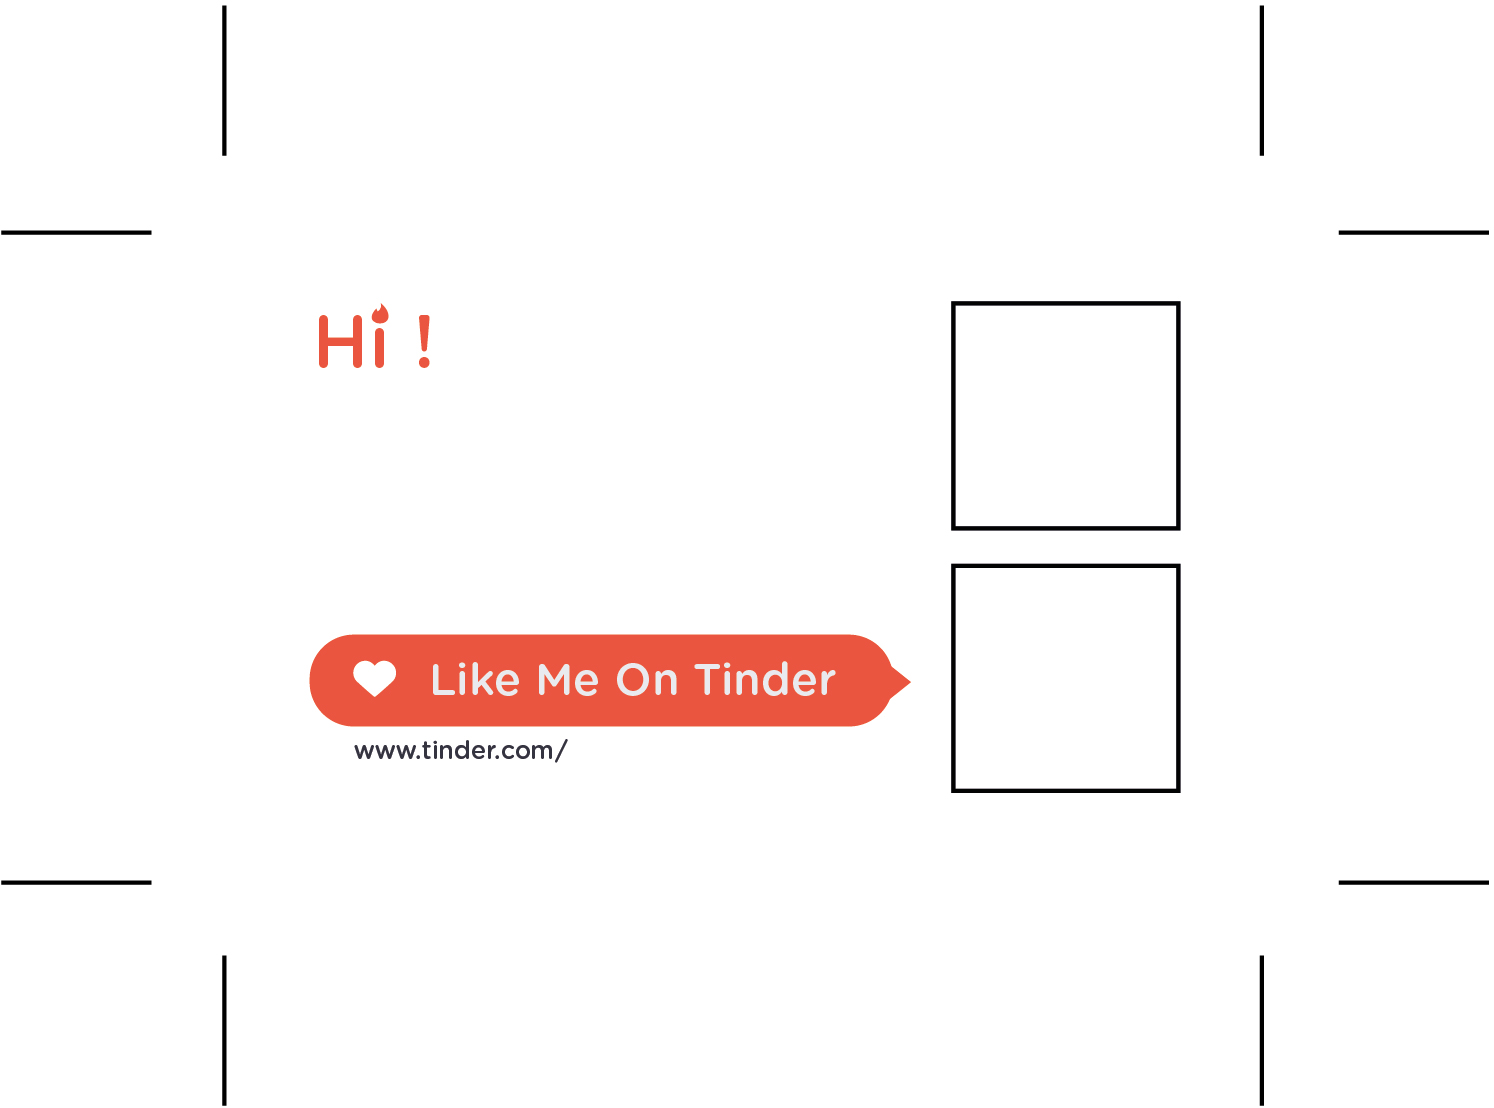
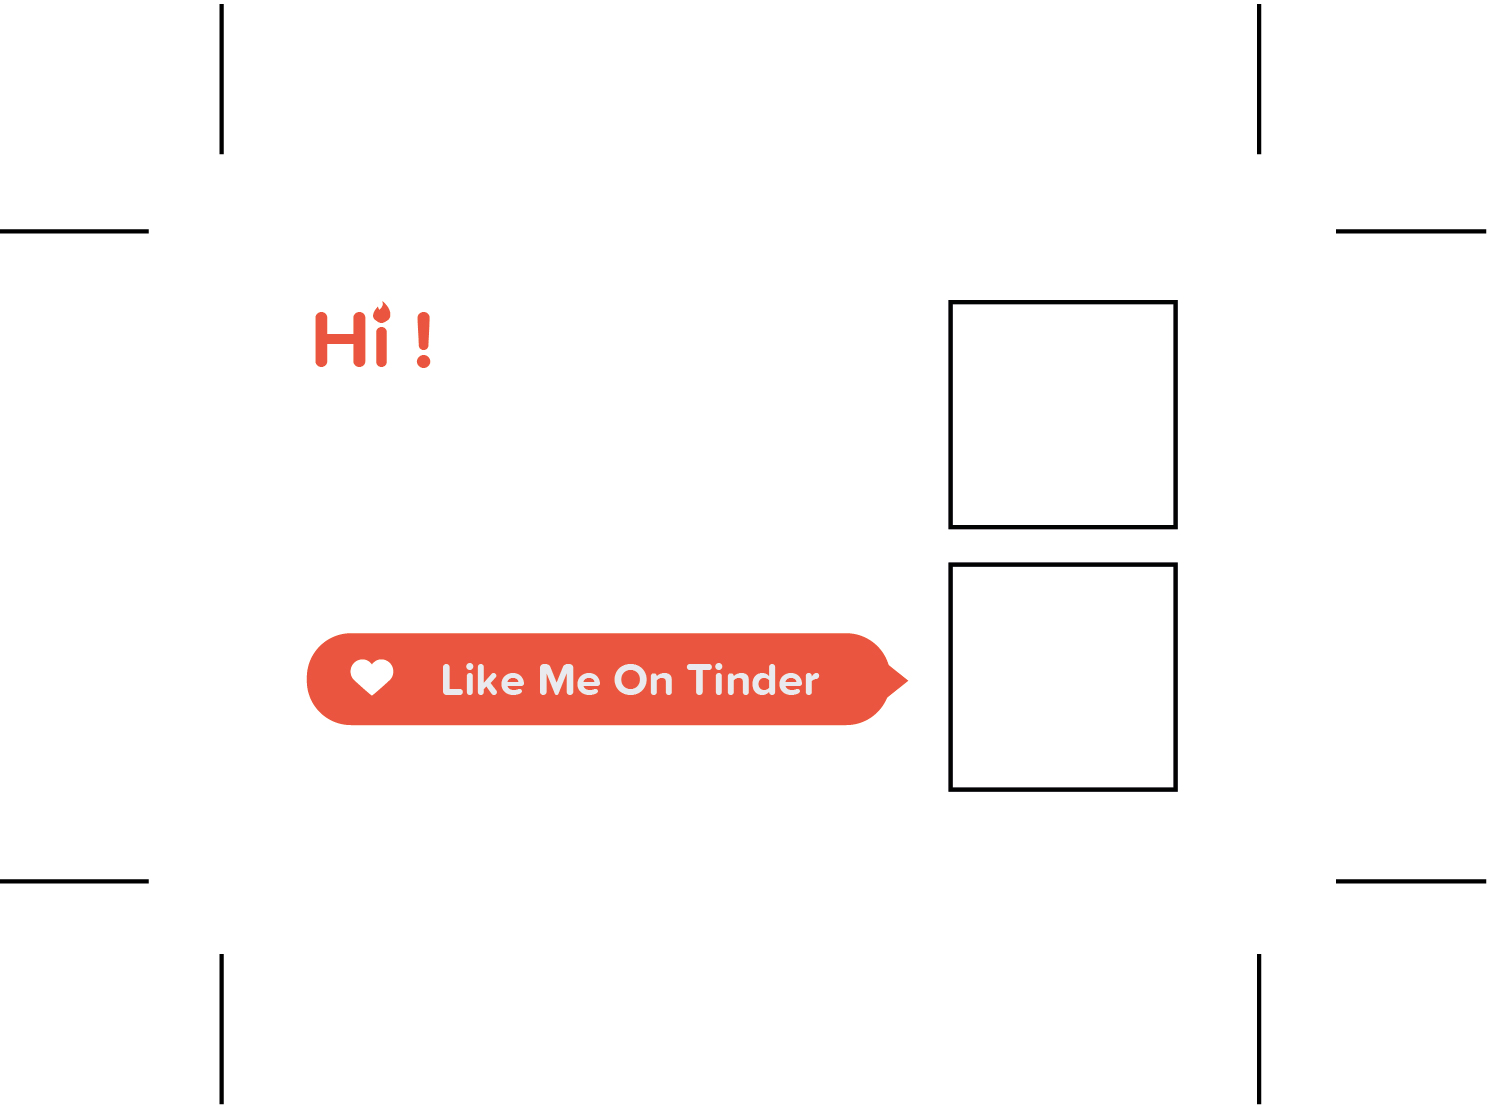
Added custom font on cards + Fixes pickup lines

diff --git a/src/js/body/main.js b/src/js/body/main.js
@@ -3,24 +3,18 @@
 // ---------------------------------------------
 var template;
 var profileDefault;
+
+//Comment lins -> don't cross the 27 characters
 var lines = [
   "I like you.",
-  "Save water, shower with a friend!",
-  "I can picture you and me together.",
-  "My doctor says I'm lacking Vitamin U.",
-  "If I were a cat I'd spend all 9 lives with you.",
-  "Are you a thief because you just stole my heart?",
-  "How was heaven when you left?",
   "Do I know you?",
   "Want to dance?",
   "You're pretty.",
-  "Where do you hide your wings?",
-  "You don't need keys to drive me crazy.",
-  "You're so fine I must be dreaming.",
-  "If beauty were time, you'd be eternity.",
   "I super like you.",
   "I will swipe you right",
-  "I would swipe you right"
+  "I would swipe you right",
+  "You are the one",
+  "Nice moves!"
   ];
 
 // ---------------------------------------------
@@ -90,27 +84,34 @@ var generatePDF = function(url, username, name, imgData){
   // Create PDF
   var doc = new jsPDF('p', 'mm', [297, 210]);
 
-  // Add user data 
-  doc.addFont('GothamRoundedMedium', 'Gotham Rounded', 'medium');
-  doc.setFont('Gotham Rounded');
-  doc.setFontSize(10);
-  doc.text(20, 20, url.replace('http://', ''));
-  doc.text(20, 30, name || username);
-  doc.text(20, 40, lines[Math.floor(Math.random() * lines.length)]);
 
   // Add QR from web profile URL
   var qrcode = qr.toDataURL({ mime: 'image/jpeg', value: url, background: '#FFFFFF', foreground: '#34333F', level: 'M' }); 
 
-  for (var x=5; x < 180; x = x + 90) {
-    for (var y=5; y < 210; y = y + 60) {
+  //Setup Font
+  doc.addFont('ProximaNovaSoft-Bold', 'Proxima Nova Soft Bold', 'Bold');
+  doc.setTextColor(52,51,63);
+  doc.setFontType("Bold");
+
+
+  for (var x=0; x < 180; x = x + 90) {
+    for (var y=0; y < 210; y = y + 60) {
       doc.addImage(template,'JPEG',x,y,107,79); // Add template
       doc.addImage(imgData || profileDefault, 'JPEG', x+68, y+21, 17, 17);  // Add web profile image
       doc.addImage(qrcode,'JPEG', x+67, y+40, 19, 19); // Add QR-code
+
+      //add userdata
+      doc.setFontSize(6);
+      doc.text(x+25, y+54, url.replace('http://', ''));
+      doc.setFontSize(10);
+      doc.text(x+23, y+32, 'My name is ' + name || username);
+      doc.text(x+23, y+36, lines[Math.floor(Math.random() * lines.length)]);
       }
   }
 
-  // Download/open PDF depending on browser settings
+  // Download/open PDF depending on browser settings 
   doc.save('TinderMe-Card-' + username + '.pdf');
+
 }
 
 var imgDataURL = function(url, callback){

diff --git a/src/js/body/libs/jspdf.debug.js b/src/js/body/libs/jspdf.debug.js
@@ -781,18 +781,18 @@ var jsPDF = (function(global) {
 			case 'sans-serif':
 			case 'verdana':
 			case 'arial':
-				fontName = 'helvetica';
+				fontName = 'arial';
 				break;
 			case 'fixed':
 			case 'monospace':
 			case 'terminal':
-				fontName = 'courier';
+				fontName = 'terminal';
 				break;
 			case 'serif':
 			case 'cursive':
 			case 'fantasy':
 				default:
-				fontName = 'times';
+				fontName = 'Proxima Nova Soft Bold';
 				break;
 			}
 

diff --git a/src/less/fonts.less b/src/less/fonts.less
@@ -41,3 +41,10 @@
     font-weight: bold;
     font-style: normal;
 }
+
+@font-face {
+    font-family: 'karla bold';
+    src: url('fonts/Karla-Bold.ttf') format('truetype');
+    font-weight: bold;
+    font-style: normal;
+}
